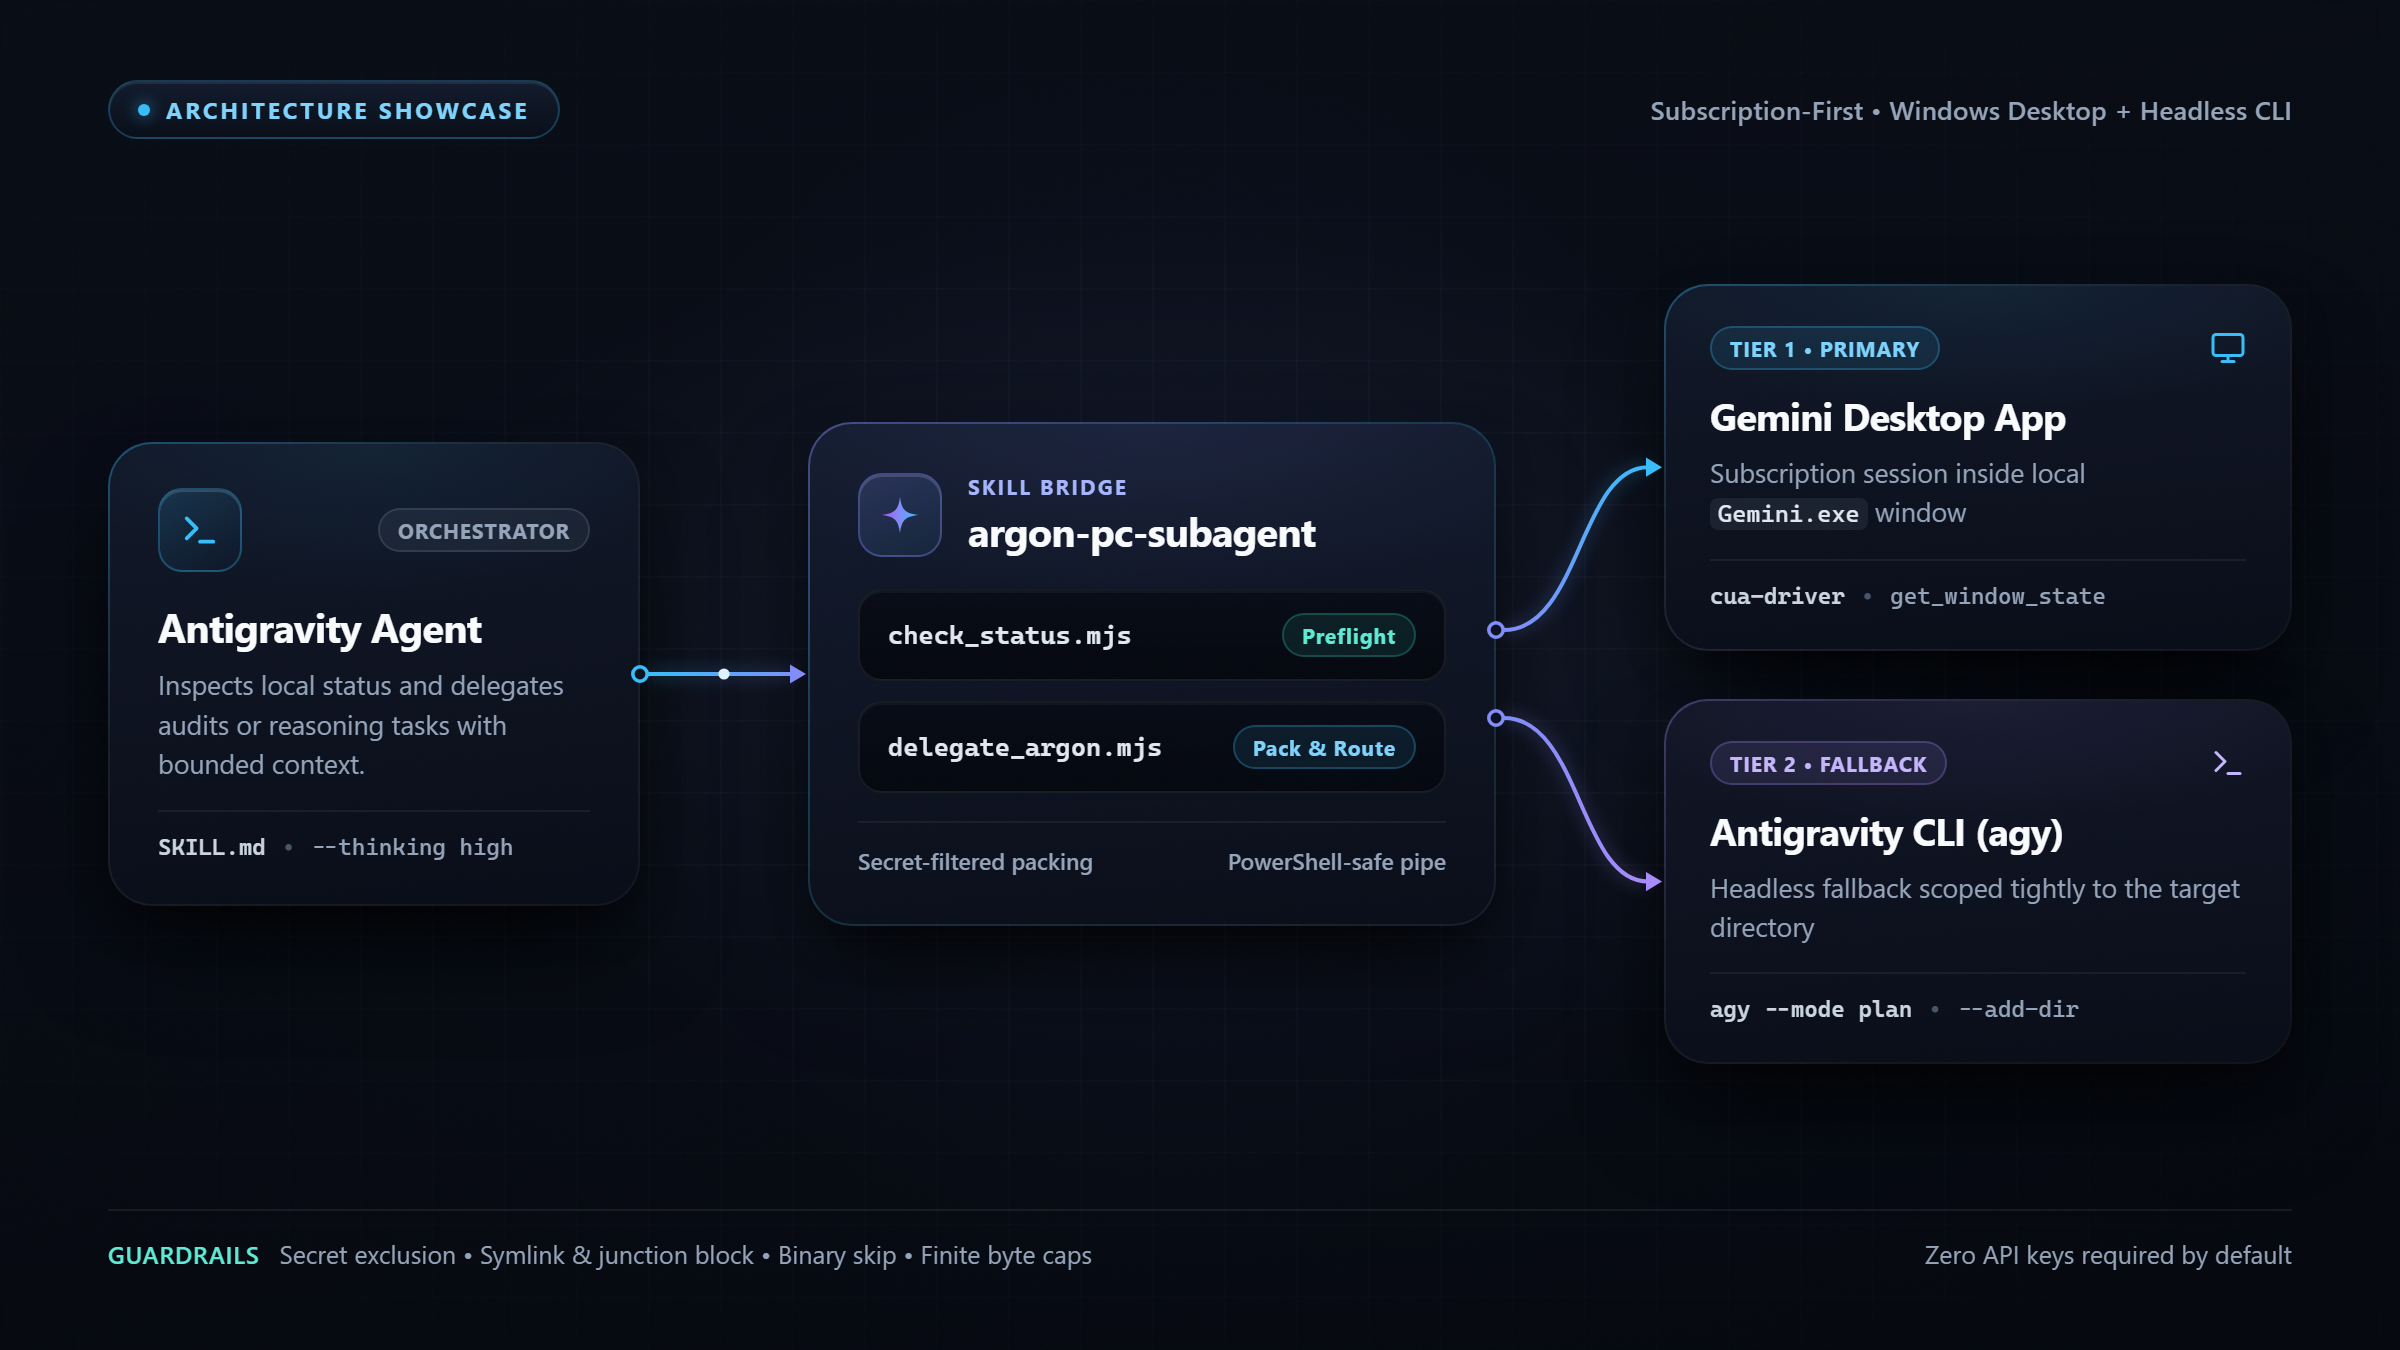
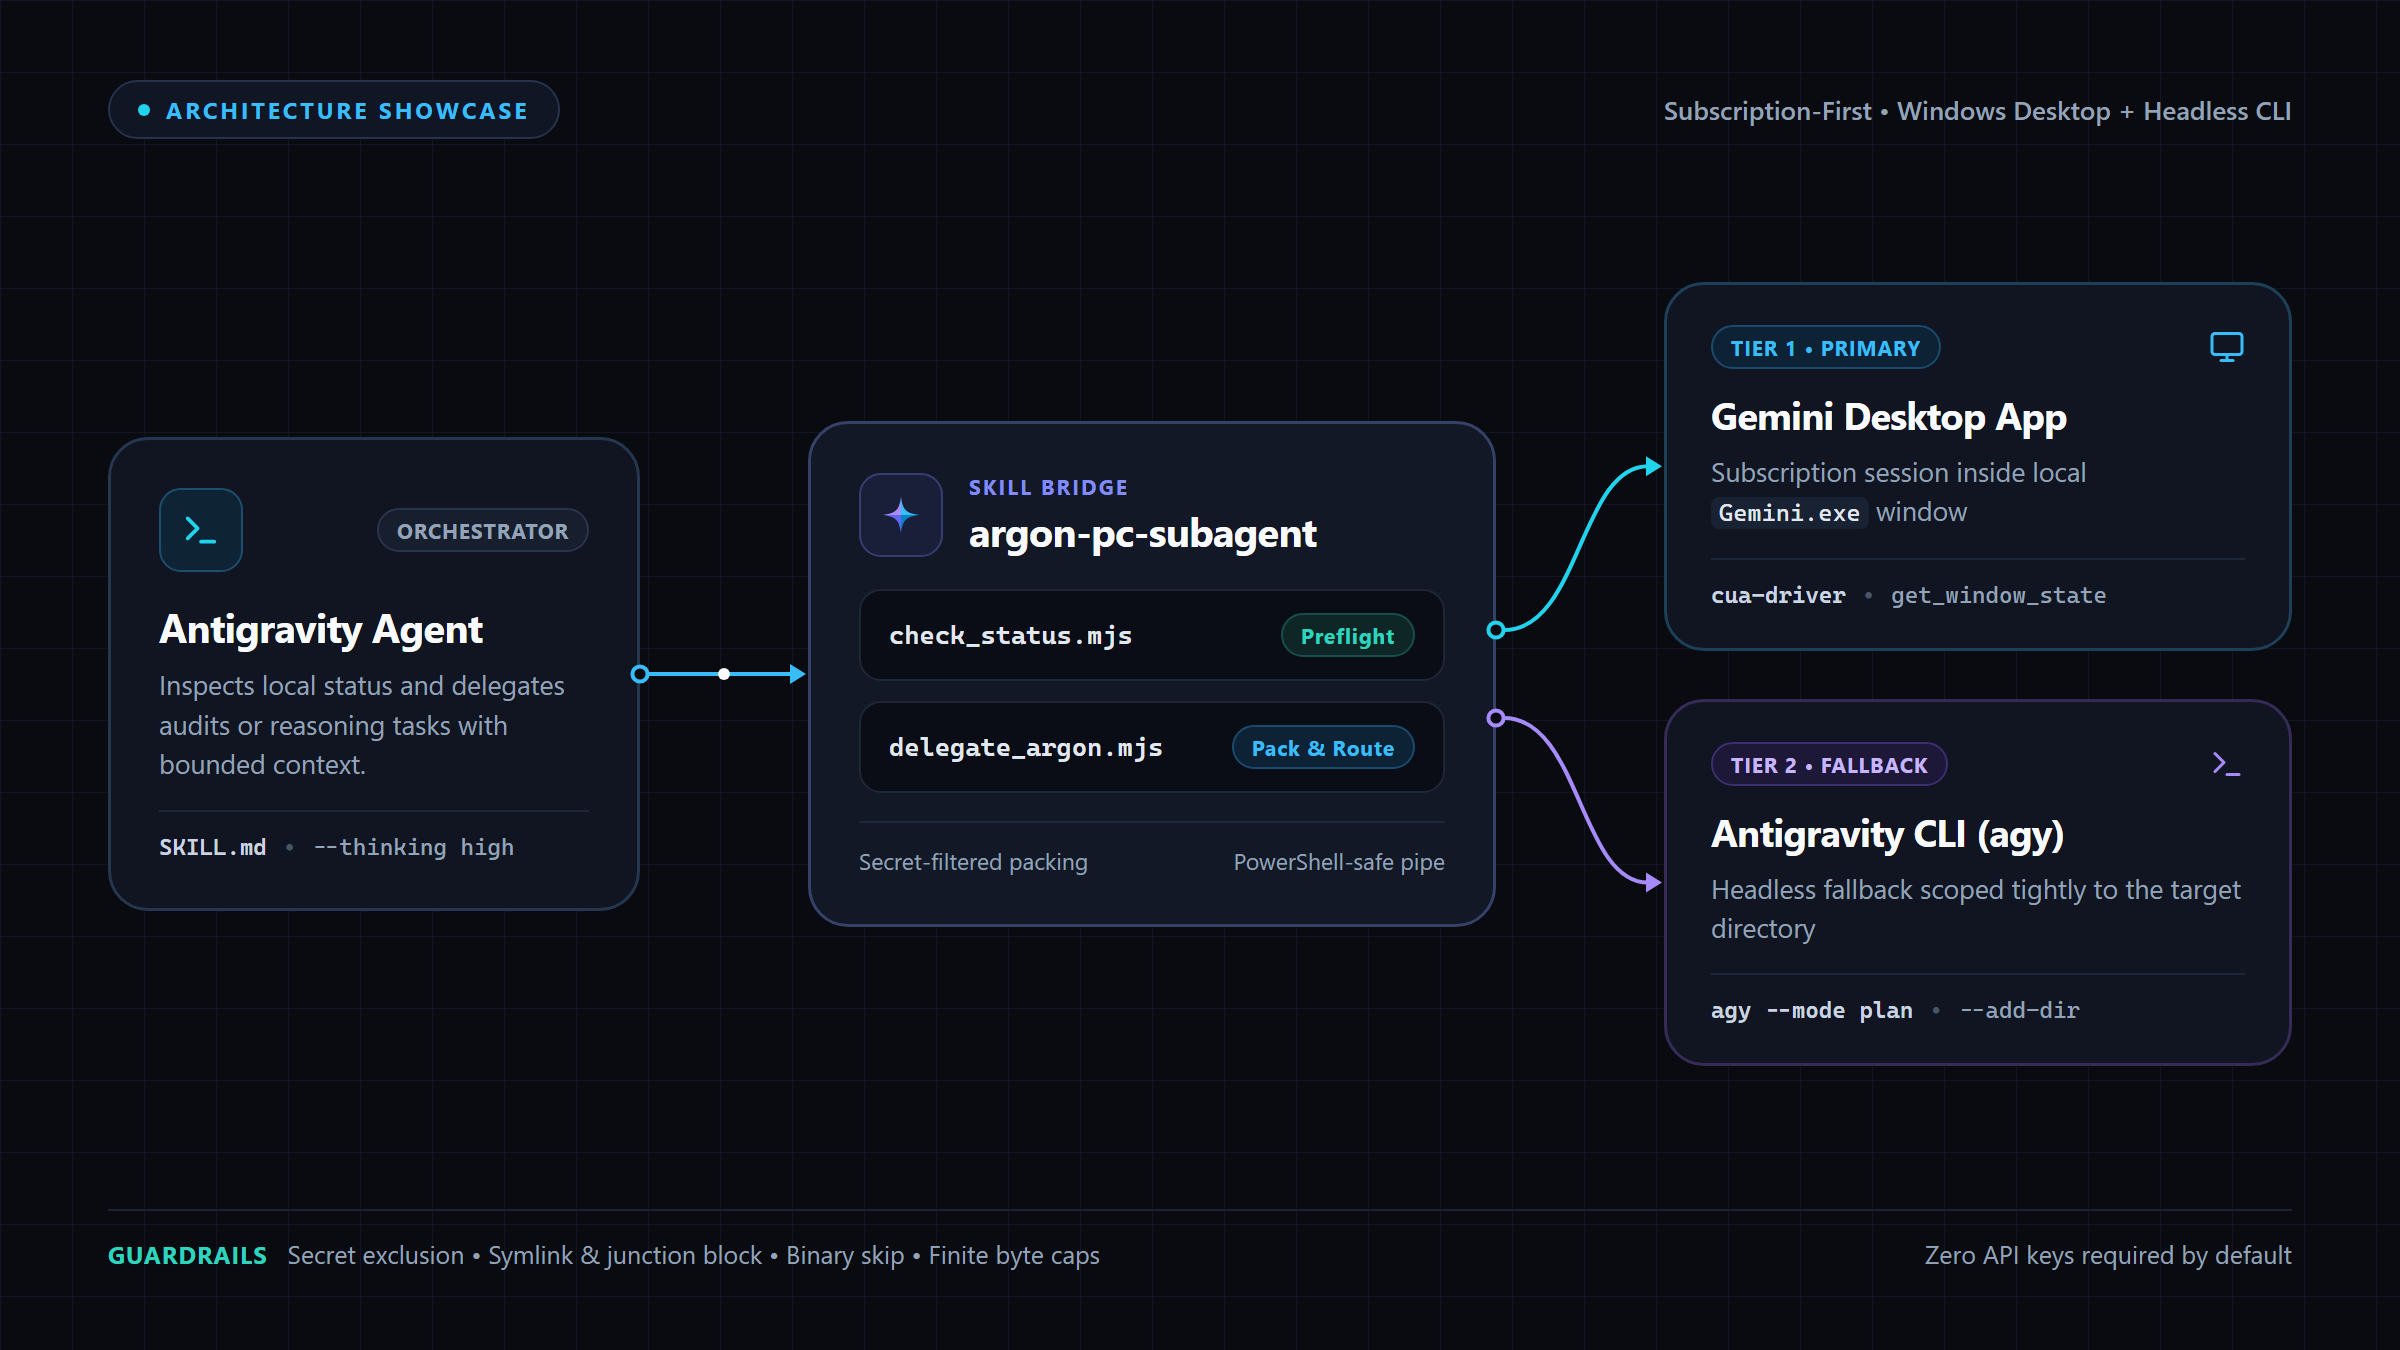
Switch all visual assets to pure flat, zero-gradient vector styling

diff --git a/README.md b/README.md
@@ -1,5 +1,5 @@
 <p align="center">
-  <img src="assets/brand-banner.jpg" alt="argon-pc-subagent — Antigravity × Gemini Desktop Bridge" width="100%" />
+  <img src="assets/brand-banner.png" alt="argon-pc-subagent — Antigravity × Gemini Desktop Bridge" width="100%" />
 </p>
 
 <p align="center">
@@ -125,7 +125,7 @@ argon-pc-subagent/
 │   ├── check_status.mjs          # Preflight detector (Gemini Desktop, cua-driver, agy)
 │   └── delegate_argon.mjs        # Context packer, secret filter & CLI/API runner
 ├── assets/
-│   ├── brand-banner.jpg          # Repository hero banner
+│   ├── brand-banner.png          # Repository hero banner
 │   ├── brand-logo.png            # Repository emblem
 │   ├── architecture-simple.png   # Simplistic architecture diagram
 │   └── infographic.png           # Full workflow & security infographic
